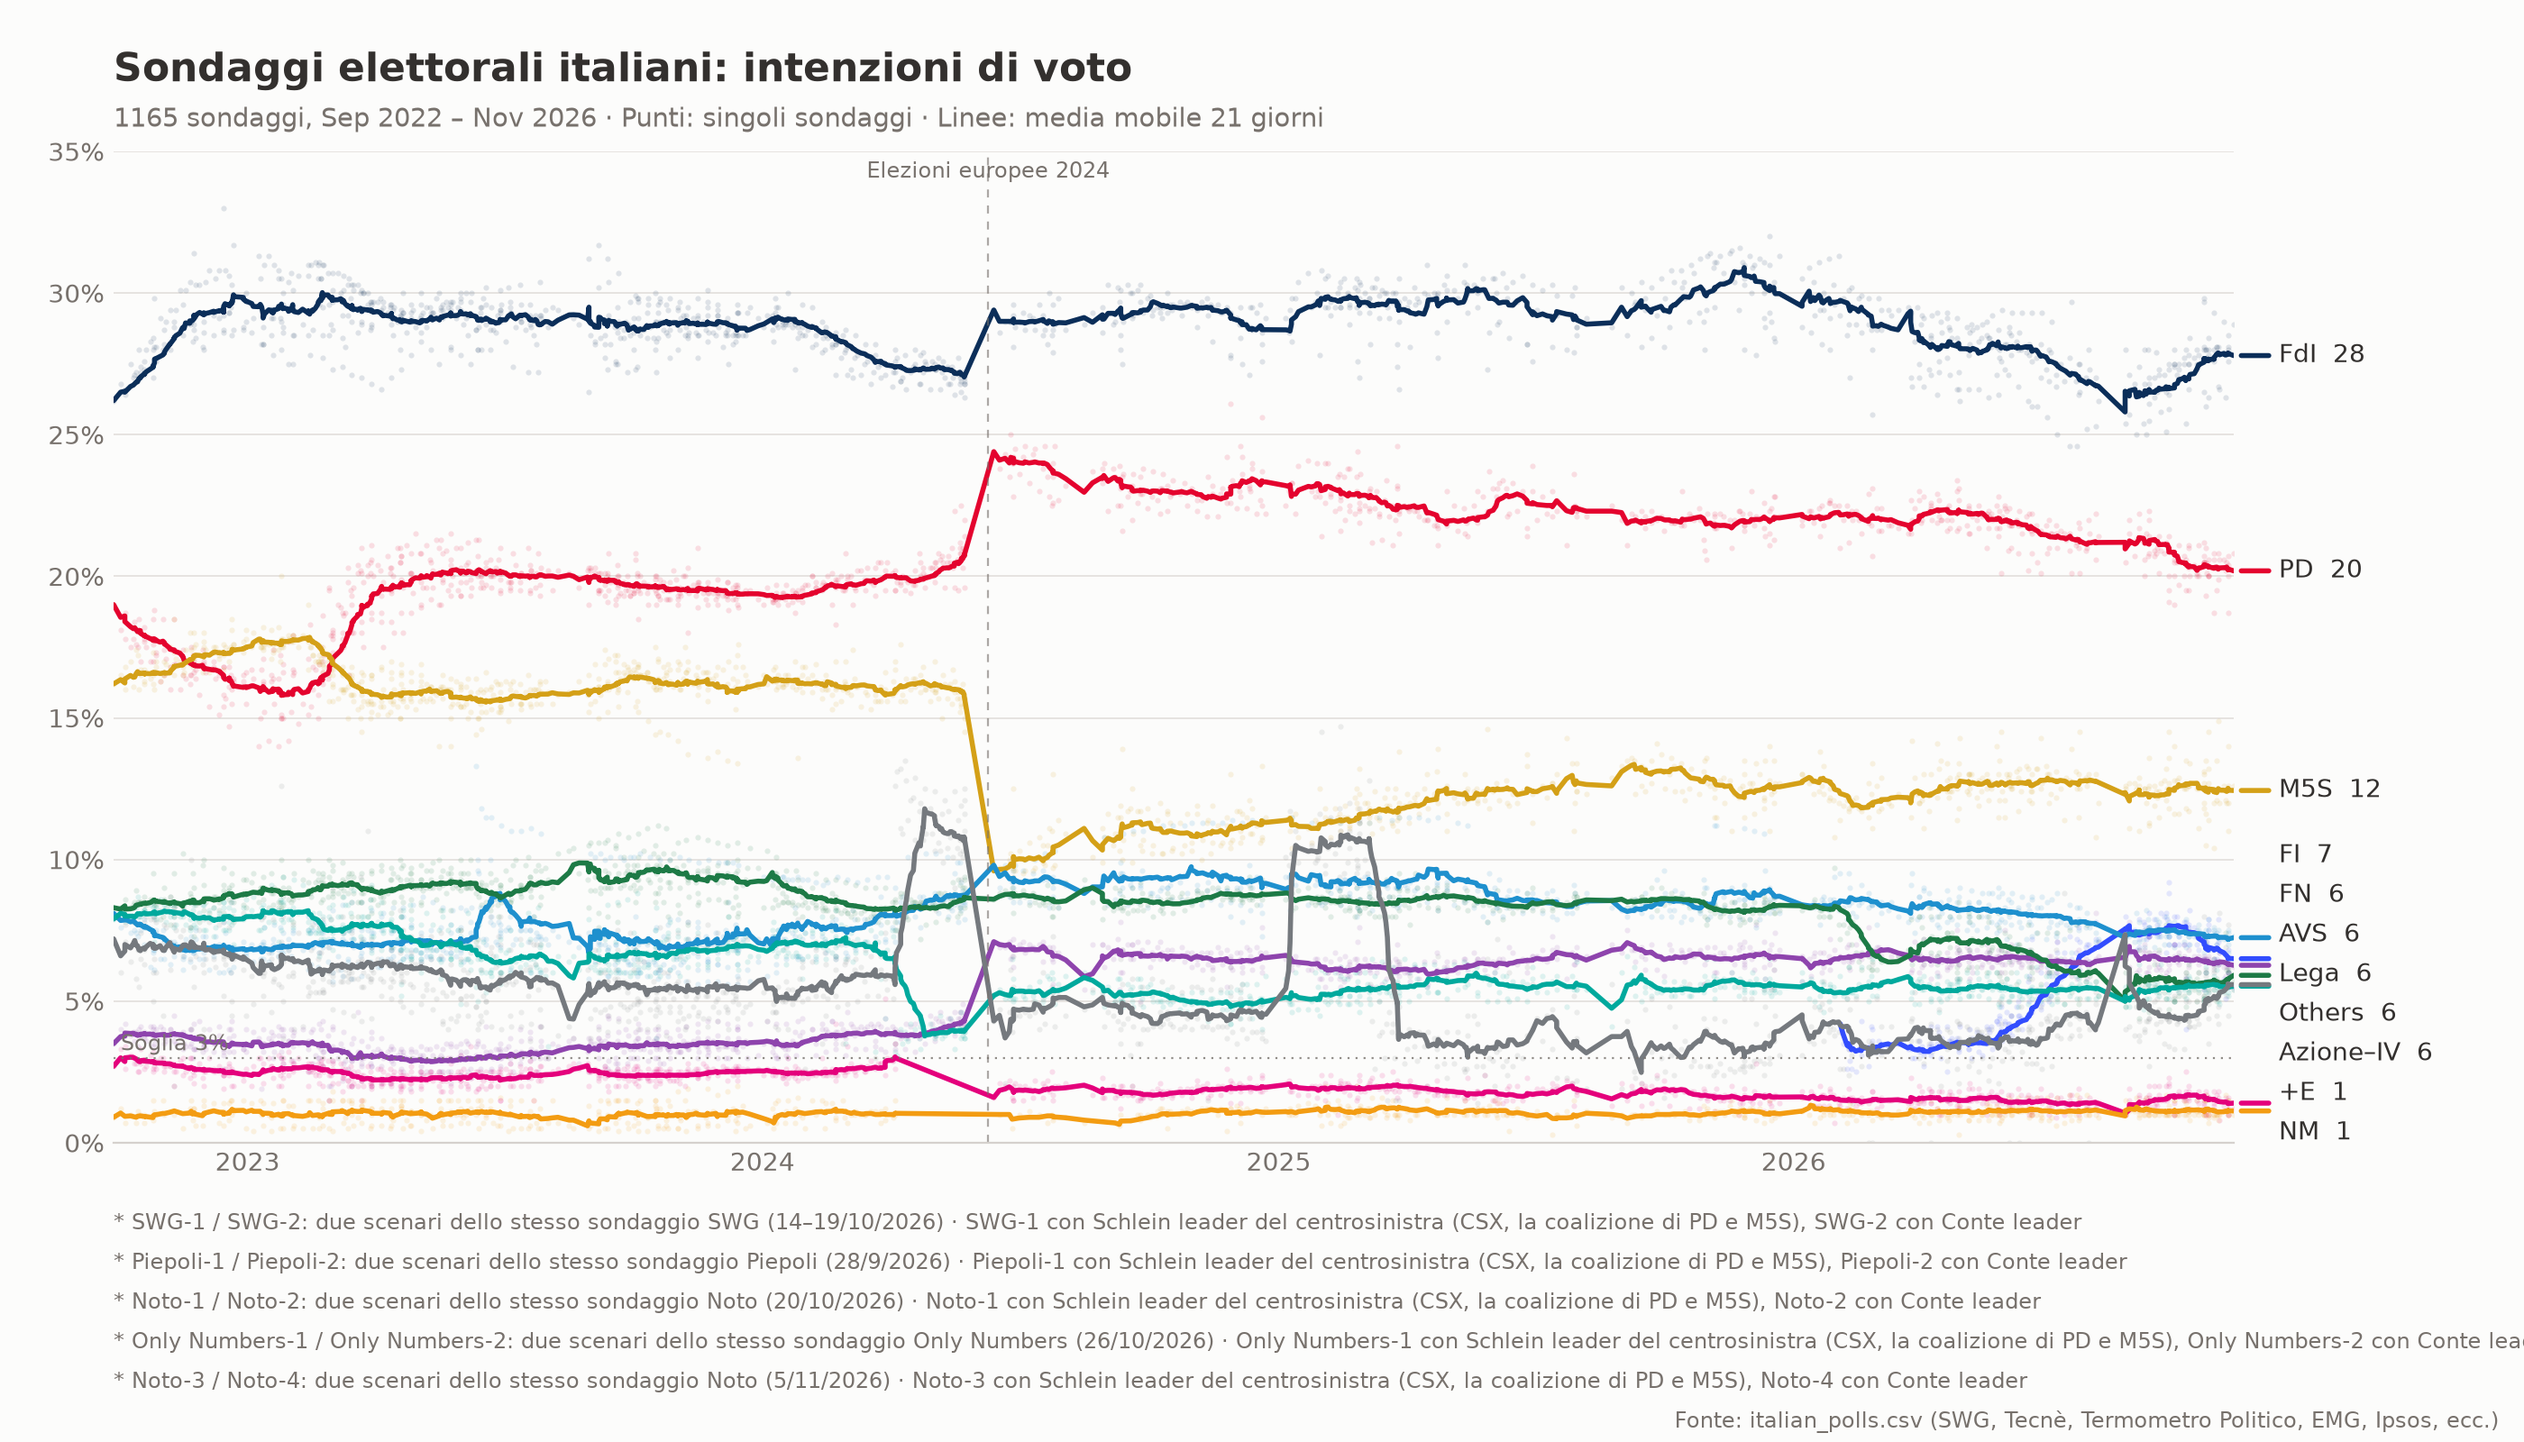
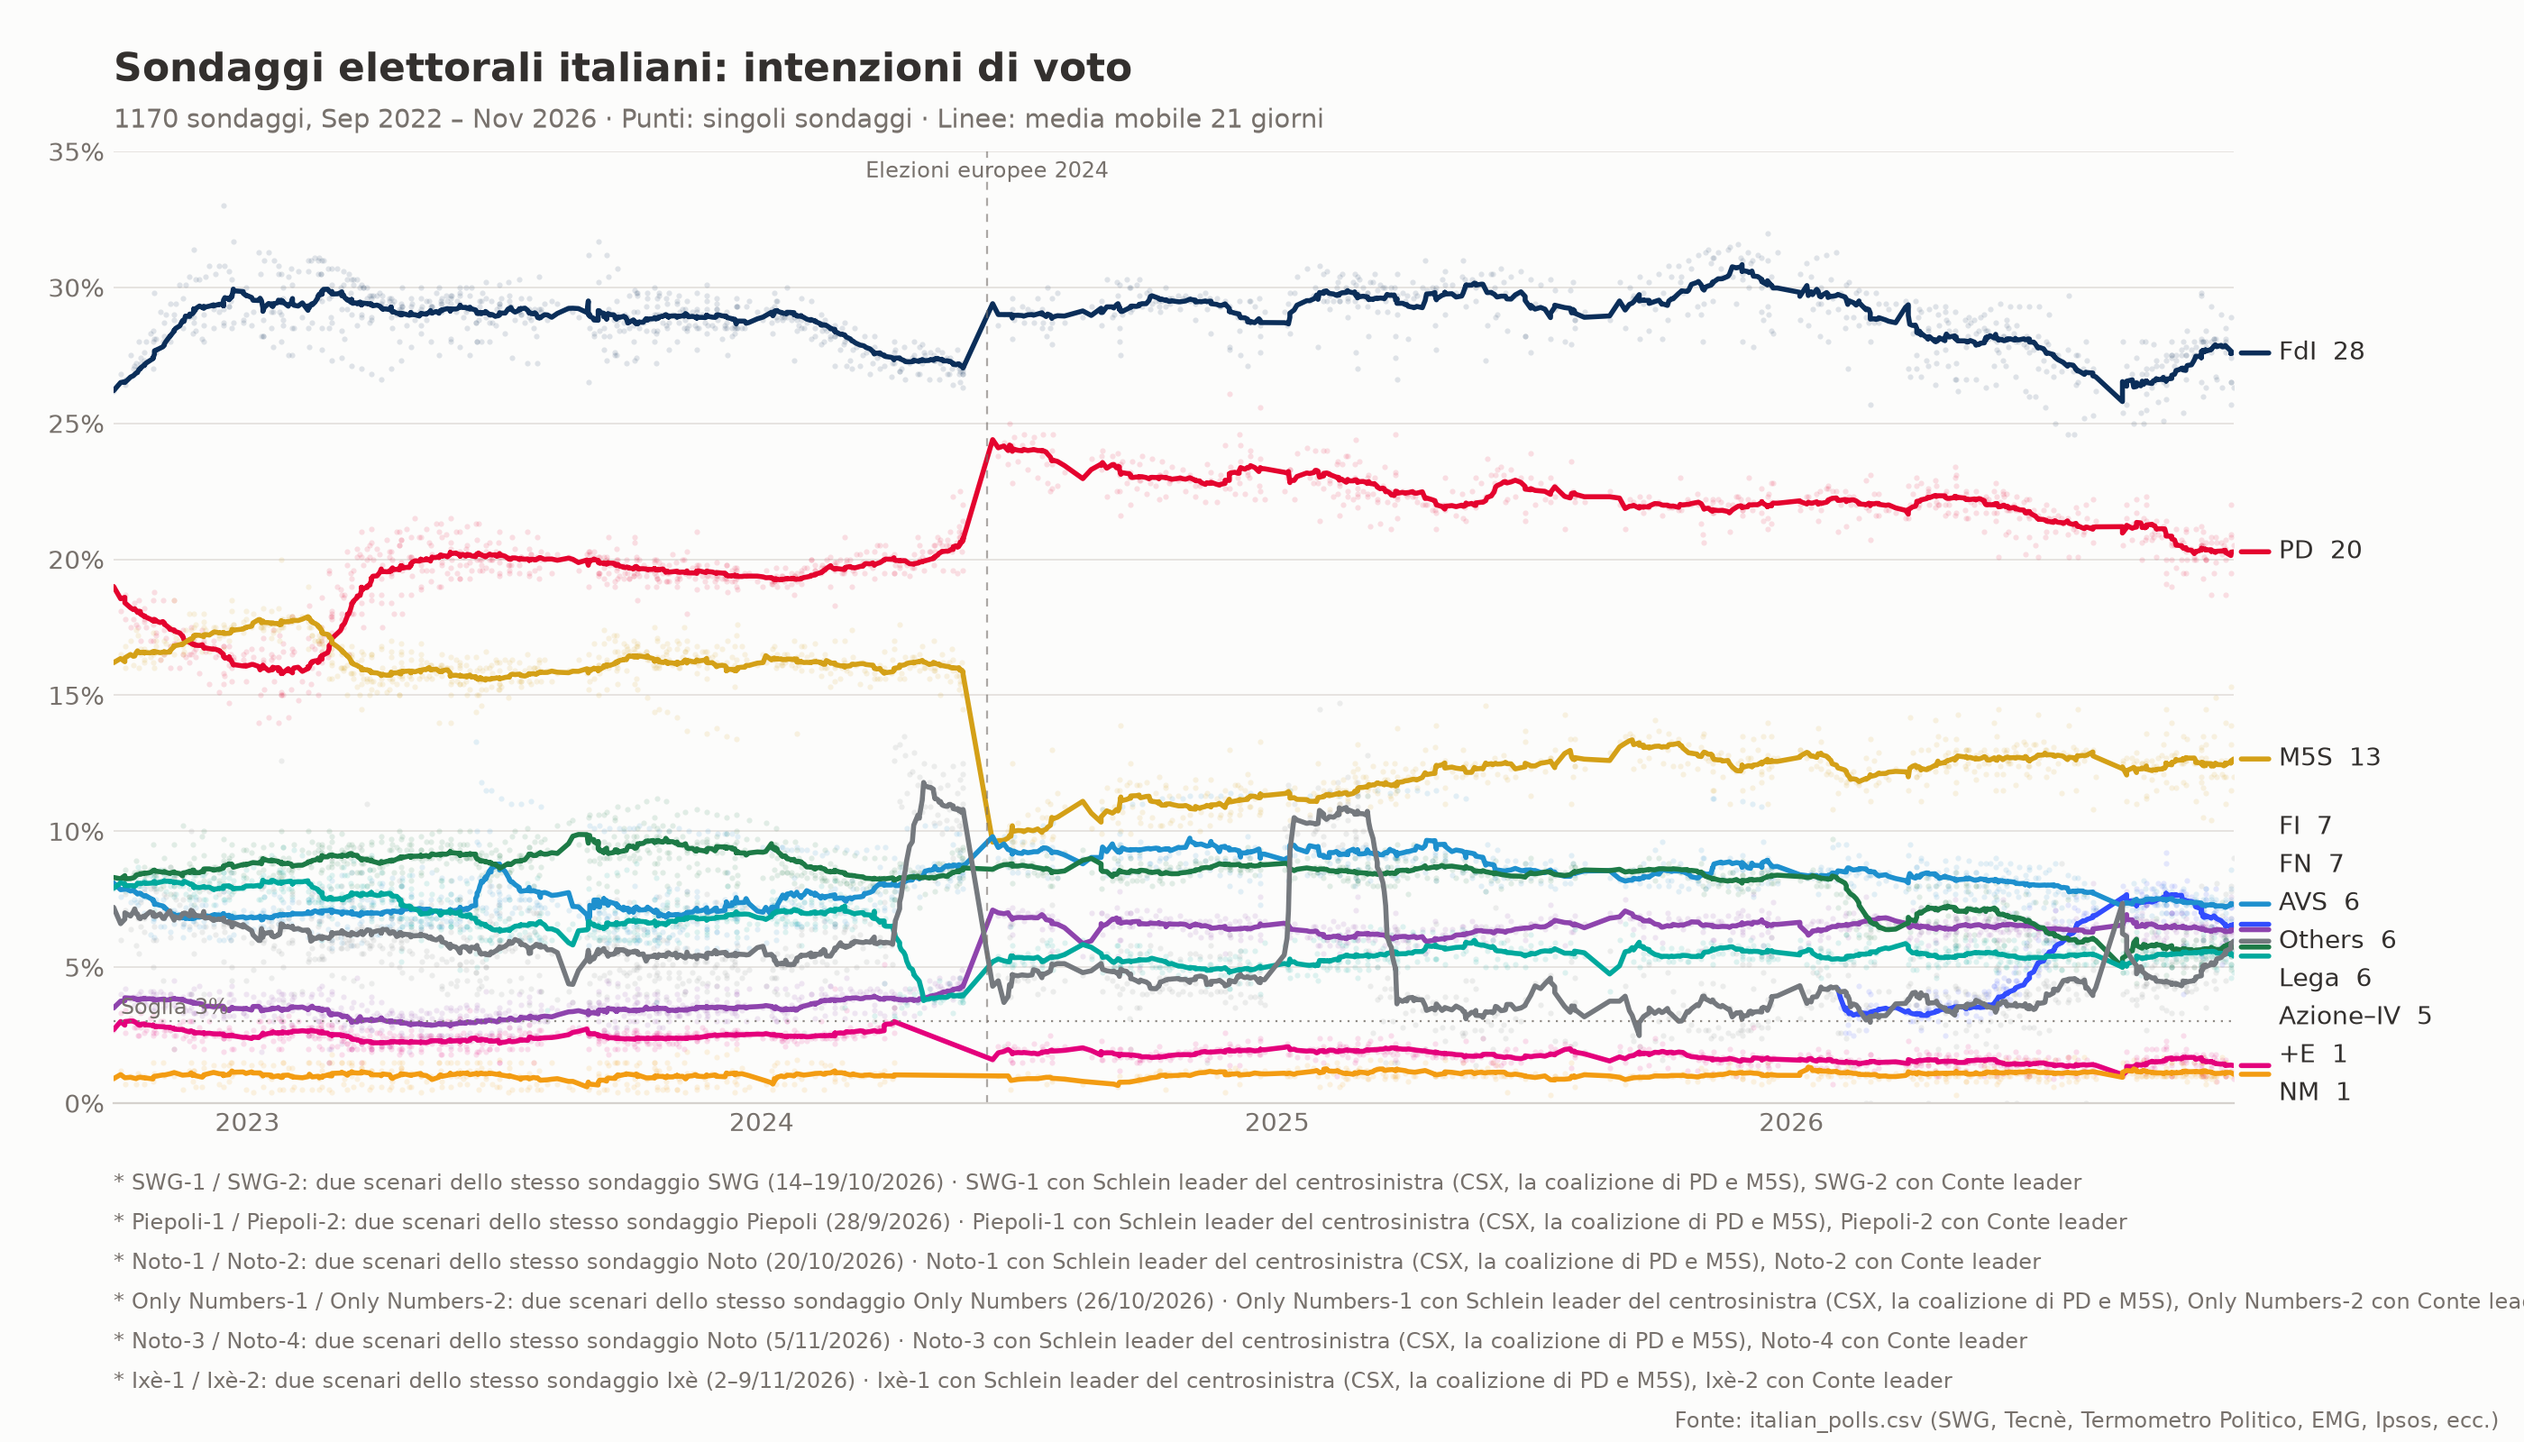
Add BiDiMedia (2026-11-10/11-11) and Quorum (2026-11-07/11-09) polls, and Ixè poll (2026-11-02/11-09) with Schlein/Conte leadership scenarios

diff --git a/main.py b/main.py
@@ -77,6 +77,11 @@ SCENARIO_NOTES = {
         "Noto-3 con Schlein leader del centrosinistra (CSX, la coalizione di PD e M5S), "
         "Noto-4 con Conte leader"
     ),
+    frozenset({"Ixè-1", "Ixè-2"}): (
+        "Ixè-1 / Ixè-2: due scenari dello stesso sondaggio Ixè (2–9/11/2026) · "
+        "Ixè-1 con Schlein leader del centrosinistra (CSX, la coalizione di PD e M5S), "
+        "Ixè-2 con Conte leader"
+    ),
 }
 
 INK = "#33302e"
